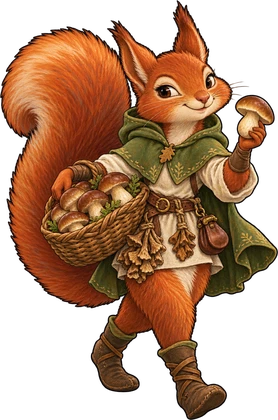
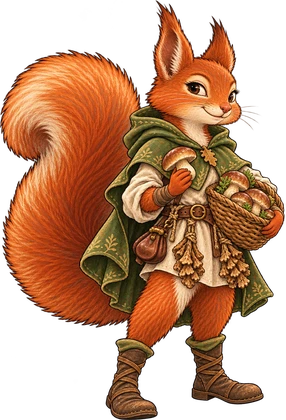
Riverfair: Sorrel uses the standing pose, like the other NPCs
Claude-Session: https://claude.ai/code/session_01EWF27K4qqVrv1RKGRgmtKF

diff --git a/index.html b/index.html
@@ -8,7 +8,7 @@
 <link rel="preconnect" href="https://fonts.googleapis.com">
 <link rel="preconnect" href="https://fonts.gstatic.com" crossorigin>
 <link rel="stylesheet" href="https://fonts.googleapis.com/css2?family=Amiri:wght@400;700&family=Figtree:wght@400;600;700;800&display=swap">
-<link rel="stylesheet" href="style.css?v=202610112211">
+<link rel="stylesheet" href="style.css?v=202610112214">
 </head>
 <body>
 <div class="wrap">
@@ -46,11 +46,11 @@
   (function(){var q=new URLSearchParams(location.search).get('theme'),t;
     try{if(q)localStorage.setItem('istanbul-theme',q);t=q||localStorage.getItem('istanbul-theme');}catch(e){t=q;}
     t=String(t||'istanbul').replace(/[^a-z0-9-]/gi,'')||'istanbul';
-    document.write('<script src="themes/'+t+'.js?v=202610112211"><\/script>');})();
+    document.write('<script src="themes/'+t+'.js?v=202610112214"><\/script>');})();
 </script>
 <script>
-  if(!window.THEME){try{localStorage.removeItem('istanbul-theme');}catch(e){}document.write('<script src="themes/istanbul.js?v=202610112211"><\/script>');}
+  if(!window.THEME){try{localStorage.removeItem('istanbul-theme');}catch(e){}document.write('<script src="themes/istanbul.js?v=202610112214"><\/script>');}
 </script>
-<script src="game.js?v=202610112211"></script>
+<script src="game.js?v=202610112214"></script>
 </body>
 </html>
